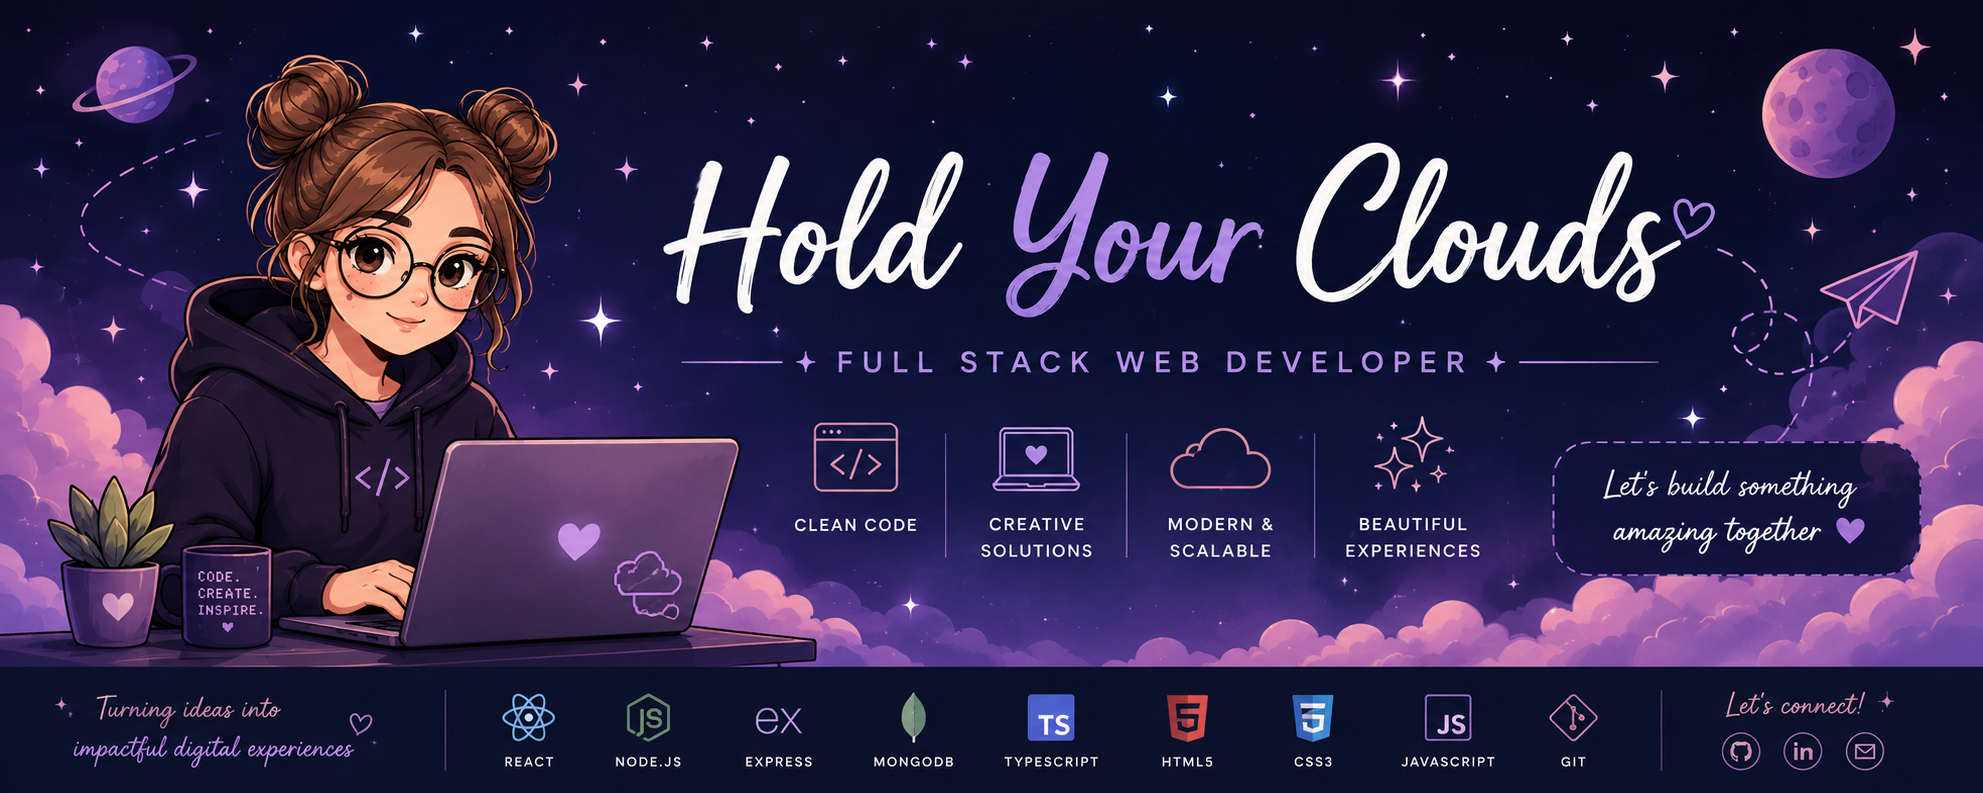
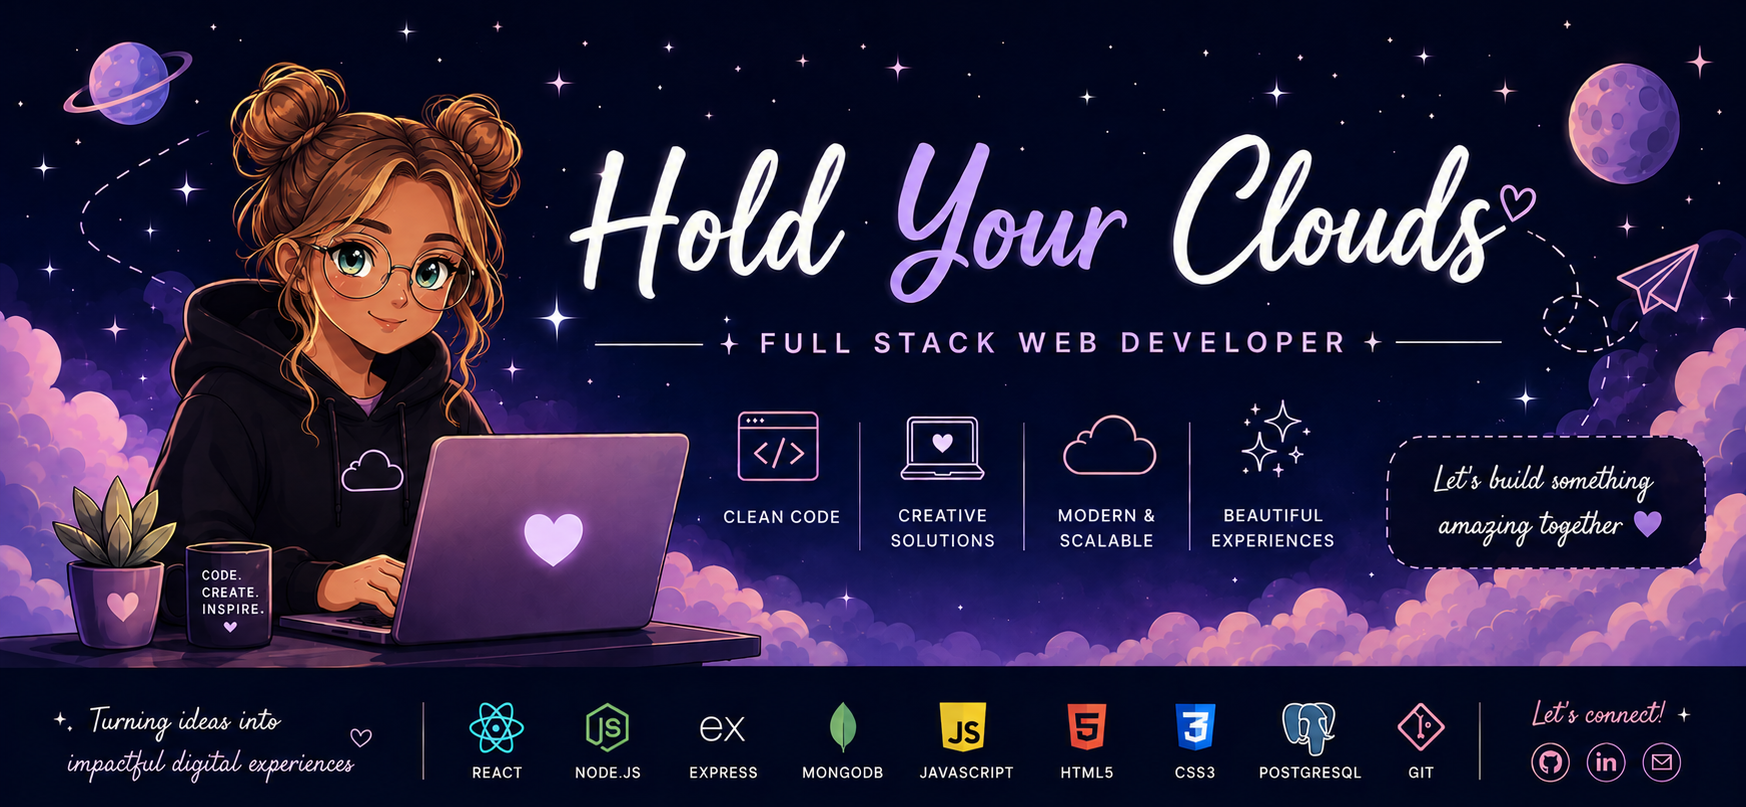
FEAT: Collateral, Theme Changes, Sidebars

diff --git a/src/components/layout/Footer.jsx b/src/components/layout/Footer.jsx
@@ -1,5 +1,15 @@
+import { useMediaQuery } from "@mui/material";
+import { useLocation } from "react-router-dom";
+
 export default function Footer() {
-  let currentYear = new Date().getFullYear();
+  const currentYear = new Date().getFullYear();
+
+  const prefersDarkMode = useMediaQuery("(prefers-color-scheme: dark)");
+  const location = useLocation();
+
+  const isContactPage = location.pathname === "/contact";
+
+  const isDarkTheme = !isContactPage && prefersDarkMode;
 
   return (
     <footer
@@ -7,6 +17,7 @@ export default function Footer() {
         textAlign: "center",
         width: "100%",
         padding: "1rem 0",
+        backgroundColor: isDarkTheme ? "#0B0D2B" : "#FFFFFF",
       }}
     >
       <h5>
@@ -15,17 +26,54 @@ export default function Footer() {
           rel="noopener noreferrer"
           target="_blank"
           style={{
-            color: "#0B0D2B",
+            color: isDarkTheme ? "#FFFFFF" : "#0B0D2B",
             textDecoration: "none",
           }}
         >
           ✨BeeGeeEss✨
         </a>
 
-        <span style={{ color: "#0B0D2B", margin: "0 8px" }}>
+        <span
+          style={{
+            color: isDarkTheme ? "#FFFFFF" : "#0B0D2B",
+            margin: "0 8px",
+          }}
+        >
           | &copy; {currentYear}
         </span>
       </h5>
     </footer>
   );
 }
+
+// export default function Footer() {
+//   let currentYear = new Date().getFullYear();
+
+//   return (
+//     <footer
+//       style={{
+//         textAlign: "center",
+//         width: "100%",
+//         padding: "1rem 0",
+//       }}
+//     >
+//       <h5>
+//         <a
+//           href="https://github.com/BeeGeeEss"
+//           rel="noopener noreferrer"
+//           target="_blank"
+//           style={{
+//             color: "#0B0D2B",
+//             textDecoration: "none",
+//           }}
+//         >
+//           ✨BeeGeeEss✨
+//         </a>
+
+//         <span style={{ color: "#0B0D2B", margin: "0 8px" }}>
+//           | &copy; {currentYear}
+//         </span>
+//       </h5>
+//     </footer>
+//   );
+// }

diff --git a/src/components/layout/Header.jsx b/src/components/layout/Header.jsx
@@ -1,8 +1,9 @@
 import { useMediaQuery } from "@mui/material";
-import { useLocation } from "react-router-dom";
+import { Link, useLocation } from "react-router-dom";
 
 import lightLogo from "/src/assets/light-logo.png";
-import darkLogo from "/src/assets/dark-banner.png";
+import darkBanner from "/src/assets/dark-banner.png";
+import lightBanner from "/src/assets/light-banner.png";
 
 function Header() {
   const prefersDarkMode = useMediaQuery("(prefers-color-scheme: dark)");
@@ -13,8 +14,8 @@ function Header() {
   const logo = isContactPage
     ? lightLogo
     : prefersDarkMode
-      ? darkLogo
-      : lightLogo;
+      ? darkBanner
+      : lightBanner;
 
   return (
     <header
@@ -27,16 +28,25 @@ function Header() {
         backgroundColor: isContactPage ? "#FFFFFF" : "transparent",
       }}
     >
-      <img
-        src={logo}
-        alt="Hold Your Clouds Banner"
+      <Link
+        to="/contact"
         style={{
           display: "block",
-          width: isContactPage ? "800px" : "100%",
-          height: "auto",
-          margin: isContactPage ? "0 auto" : 0,
+          width: "100%",
+          cursor: "pointer",
         }}
-      />
+      >
+        <img
+          src={logo}
+          alt="Hold Your Clouds Banner"
+          style={{
+            display: "block",
+            width: isContactPage ? "450px" : "100%",
+            height: "auto",
+            margin: isContactPage ? "0 auto" : 0,
+          }}
+        />
+      </Link>
     </header>
   );
 }

diff --git a/src/index.css b/src/index.css
@@ -94,3 +94,31 @@ button {
   cursor: pointer;
   font: inherit;
 }
+
+html,
+body,
+#root {
+  margin: 0;
+  padding: 0;
+  width: 100%;
+}
+
+.site-layout {
+  display: grid;
+  grid-template-columns: 150px minmax(0, 1fr) 150px;
+  width: 100%;
+  min-height: 100vh;
+}
+
+.left-sidebar {
+  background-color: #0b0d2b;
+}
+
+.right-sidebar {
+  background-color: #0b0d2b;
+}
+
+.main-column {
+  min-width: 0;
+  width: 100%;
+}

diff --git a/src/styles/global.css b/src/styles/global.css
@@ -96,3 +96,30 @@ main {
   outline: 3px solid #8c52ff;
   outline-offset: 3px;
 }
+
+.site-layout {
+  display: grid;
+  grid-template-columns: 120px minmax(0, 1fr) 120px;
+  min-height: 100vh;
+}
+
+.left-sidebar,
+.right-sidebar {
+  background-color: #f5f5f5;
+}
+
+.main-column {
+  width: 100%;
+  min-width: 0;
+}
+
+@media (max-width: 900px) {
+  .site-layout {
+    grid-template-columns: 1fr;
+  }
+
+  .left-sidebar,
+  .right-sidebar {
+    display: none;
+  }
+}

diff --git a/src/components/layout/MainLayout.jsx b/src/components/layout/MainLayout.jsx
@@ -1,20 +1,26 @@
-import { Outlet } from "react-router-dom";
 import Header from "./Header";
 import Navbar from "./NavBar";
 import Footer from "./Footer";
+import { Outlet } from "react-router-dom";
 
 function MainLayout() {
   return (
-    <>
-      <Header />
-      <Navbar />
+    <div className="site-layout">
+      <aside className="left-sidebar"></aside>
 
-      <main>
-        <Outlet />
-      </main>
+      <div className="main-column">
+        <Header />
+        <Navbar />
 
-      <Footer />
-    </>
+        <main>
+          <Outlet />
+        </main>
+
+        <Footer />
+      </div>
+
+      <aside className="right-sidebar"></aside>
+    </div>
   );
 }
 